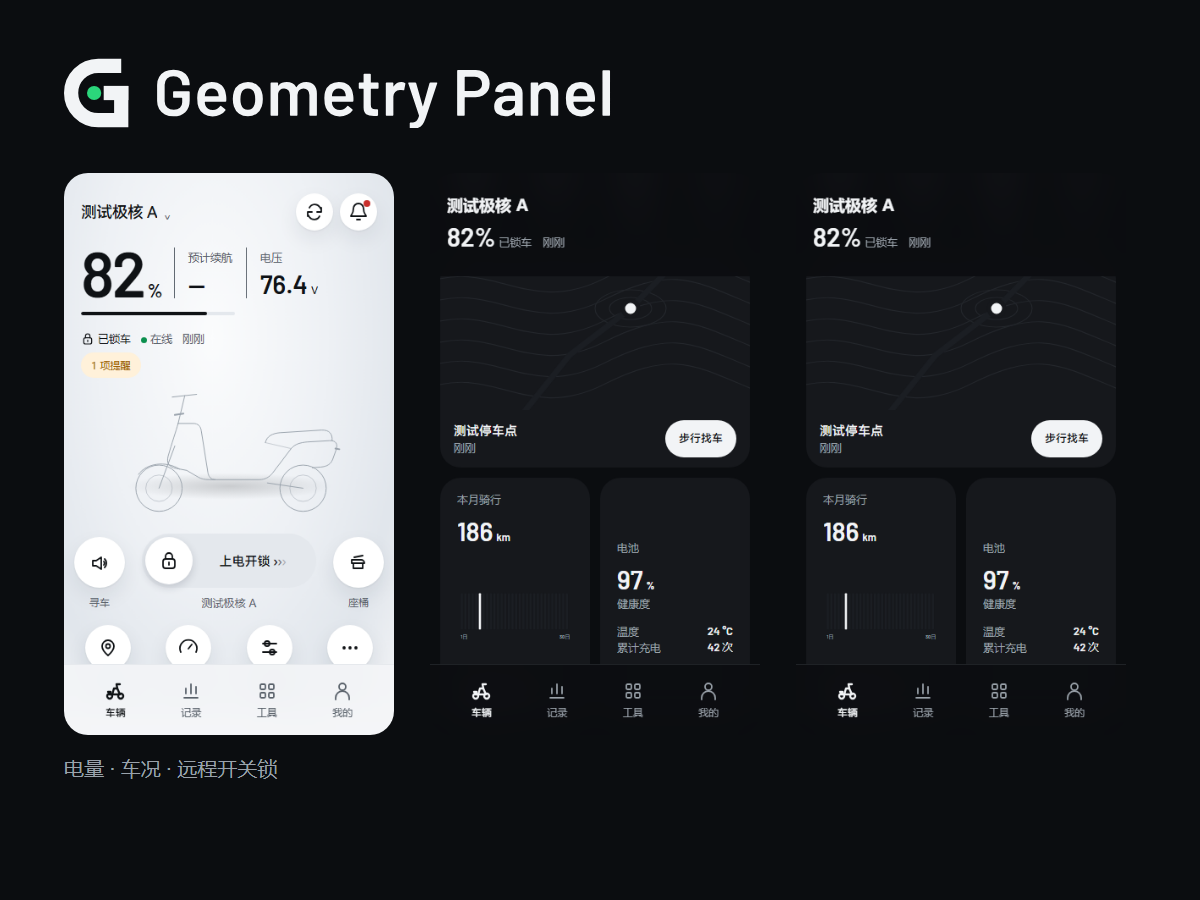
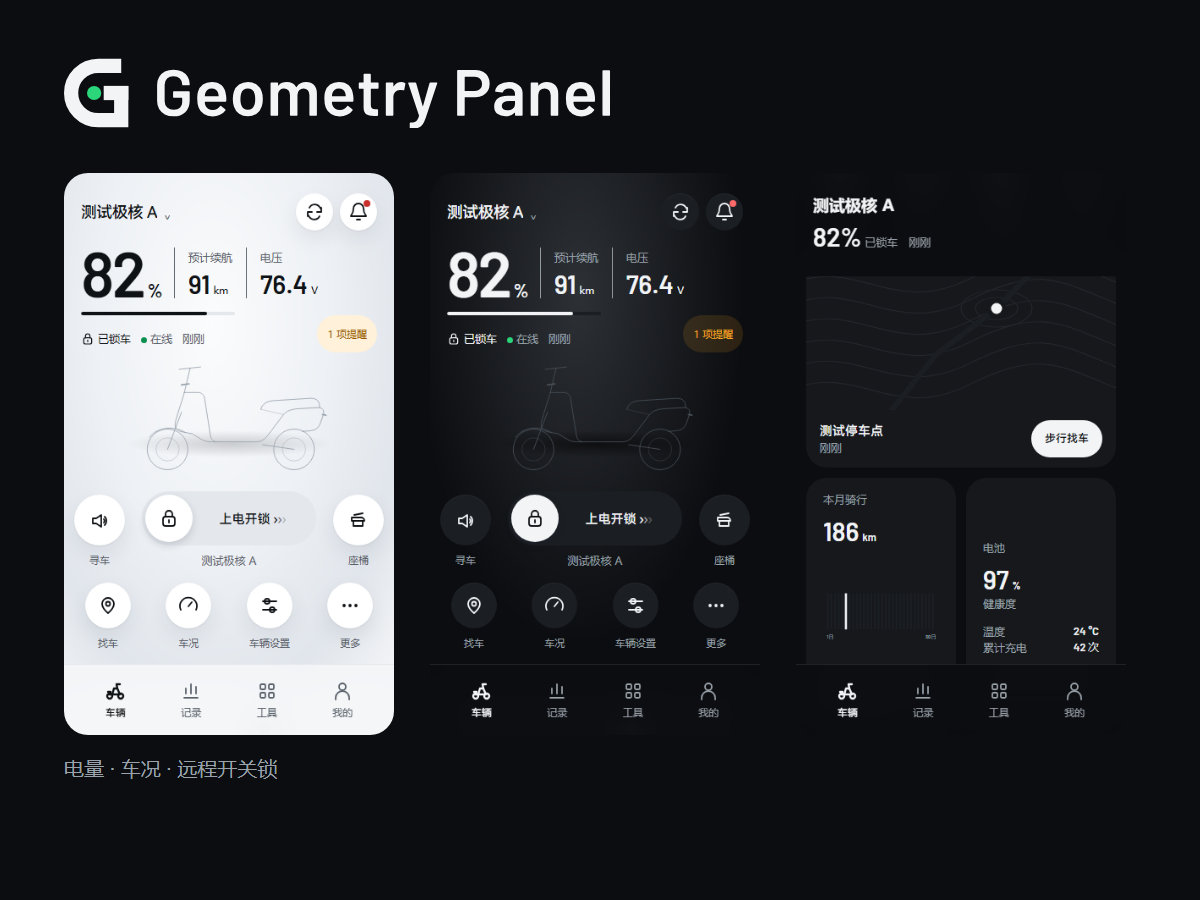
fix: 完善设置确认内容并更新首页预览图

diff --git a/src/ui/owner.ts b/src/ui/owner.ts
@@ -140,11 +140,11 @@ export function mountOwner(host:HTMLElement,o:{path:string;session:Session|null;
   if(cmd==='fence-map'){if(!center)center={longitude:116.397,latitude:39.908};editor!.row.rideRangeName=host.querySelector<HTMLInputElement>('input')!.value;mapLoaded=true;render();}
   if(cmd==='map-in'||cmd==='map-out'){mapZoom=Math.max(8,Math.min(18,mapZoom+(cmd==='map-in'?1:-1)));drawMap();}
   if(cmd==='fence-radius'){if(editor)editor.row.rideRangeName=host.querySelector<HTMLInputElement>('input')!.value;choose(a,'半径',Array.from({length:49},(_,i)=>{const v=200+i*100;return [String(v),v+' m'] as [string,string];}),String(radius),v=>{radius=Number(v);if(center)mapZoom=Math.max(8,Math.min(18,Math.floor(Math.log2(156543.03392*Math.cos(center.latitude*Math.PI/180)*150/radius))));render();});}
-  if(cmd==='fence-save'&&editor?.type==='fence'){const name=host.querySelector<HTMLInputElement>('input')!.value.trim();if(!name||!center||!mapLoaded||!mapSelected){a.toast(!name?'请填写围栏名称':'请在地图上选择圆心');return;}const old={...editor.row},next={...old,rideRangeName:name,addrPositionName:name,addrPosition:`${center.longitude},${center.latitude}`,radius:String(radius/1000)};editor=null;void mutate('电子围栏',txt(old.rideRangeName)||'无',name+' · '+radius+' m',()=>api.saveFence(s,next,scope.signal),'fences',v=>Array.isArray(v)?rows(v).some(x=>x.rideRangeName===name&&String(x.radius)===String(radius/1000)&&x.addrPosition===next.addrPosition):null);render();}
-  if(cmd==='fence-use'||cmd==='fence-delete'){const r=list('fences')[i];if(!r)return;const on=String(r.delFlag)!=='0';void mutate(cmd==='fence-delete'?'删除围栏':'电子围栏',txt(r.rideRangeName),cmd==='fence-delete'?'已删除':on?'开启':'关闭',()=>cmd==='fence-delete'?api.removeFence(s,txt(r.id),scope.signal):api.useFence(s,txt(r.id),on,scope.signal),'fences',v=>Array.isArray(v)?cmd==='fence-delete'?!rows(v).some(x=>x.id===r.id):rows(v).some(x=>x.id===r.id&&String(x.delFlag)===(on?'0':'1')):null,cmd==='fence-delete');}
+  if(cmd==='fence-save'&&editor?.type==='fence'){const name=host.querySelector<HTMLInputElement>('input')!.value.trim();if(!name||!center||!mapLoaded||!mapSelected){a.toast(!name?'请填写围栏名称':'请在地图上选择圆心');return;}const old={...editor.row},next={...old,rideRangeName:name,addrPositionName:name,addrPosition:`${center.longitude},${center.latitude}`,radius:String(radius/1000)};editor=null;void mutate('电子围栏',old.id?txt(old.rideRangeName)+' · '+Number(old.radius)*1000+' m':'无',name+' · '+radius+' m',()=>api.saveFence(s,next,scope.signal),'fences',v=>Array.isArray(v)?rows(v).some(x=>x.rideRangeName===name&&String(x.radius)===String(radius/1000)&&x.addrPosition===next.addrPosition):null);render();}
+  if(cmd==='fence-use'||cmd==='fence-delete'){const r=list('fences')[i];if(!r)return;const on=String(r.delFlag)!=='0';void mutate(cmd==='fence-delete'?'删除围栏':'电子围栏',txt(r.rideRangeName)+' · '+(String(r.delFlag)==='0'?'开启':'关闭'),cmd==='fence-delete'?'已删除':on?'开启':'关闭',()=>cmd==='fence-delete'?api.removeFence(s,txt(r.id),scope.signal):api.useFence(s,txt(r.id),on,scope.signal),'fences',v=>Array.isArray(v)?cmd==='fence-delete'?!rows(v).some(x=>x.id===r.id):rows(v).some(x=>x.id===r.id&&String(x.delFlag)===(on?'0':'1')):null,cmd==='fence-delete');}
   if(cmd==='plan-new'||cmd==='plan-edit'){editor={type:'plan',row:cmd==='plan-edit'?{...list('plans')[i]}:{startTime:'07:00',endTime:'21:00'}};render();}
   if(cmd==='plan-time'&&editor){times('充电时段',txt(editor.row.startTime),txt(editor.row.endTime),(x,y)=>{if(editor){editor.row.startTime=x;editor.row.endTime=y;render();}});}
-  if(cmd==='plan-save'&&editor?.type==='plan'){const r={...editor.row};editor=null;a.sheet('充电计划',ConfirmSheet('保存并启用',s.vehicle.name,s.vehicle.vin.slice(-6),'data-plan-confirm',`从 ${txt(r.id)?'原计划':'无计划'} 改为 ${txt(r.startTime)}–${txt(r.endTime)}`),button=>{if(button.hasAttribute('data-plan-confirm')&&!busy){a.closeSheet();void savePlan(r);}});render();}
+  if(cmd==='plan-save'&&editor?.type==='plan'){const r={...editor.row},old=list('plans').find(x=>x.id===r.id);editor=null;a.sheet('充电计划',ConfirmSheet('保存并启用',s.vehicle.name,s.vehicle.vin.slice(-6),'data-plan-confirm',`从 ${old?txt(old.startTime)+'–'+txt(old.endTime):'无计划'} 改为 ${txt(r.startTime)}–${txt(r.endTime)}`),button=>{if(button.hasAttribute('data-plan-confirm')&&!busy){a.closeSheet();void savePlan(r);}});render();}
   if(cmd==='plan-use'||cmd==='plan-retry'){const r=cmd==='plan-retry'?{id:pendingPlan,delFlag:'1'}:list('plans')[i];if(!r)return;const on=String(r.delFlag)!=='0';void mutate('充电计划',on?'未启用':'已启用',on?'已启用':'未启用',()=>api.usePlan(s,txt(r.id),on,scope.signal),'plans',v=>Array.isArray(v)?rows(v).some(x=>x.id===r.id&&String(x.delFlag)===(on?'0':'1')):null);}
   if(cmd==='share-new'){const existing=list(readKey).filter(r=>shareTab==='long'||Number(r.residualSeconds)>0);if(existing.length>=3)return;editor={type:'share',row:{hours:txt(list('shareTimes')[0]?.hours)||'24'}};render();}
   if(cmd==='share-hours'&&editor){editor.row.name=host.querySelector<HTMLInputElement>('[data-owner-field="name"]')!.value;editor.row.phone=host.querySelector<HTMLInputElement>('[data-owner-field="phone"]')!.value;choose(a,'分享时长',list('shareTimes').filter(r=>num(r.hours)!==null).map(r=>[txt(r.hours),txt(r.hours)+' 小时']),txt(editor.row.hours),v=>{if(editor){editor.row.hours=v;render();host.querySelector<HTMLInputElement>('[data-owner-field="name"]')!.value=txt(editor.row.name);host.querySelector<HTMLInputElement>('[data-owner-field="phone"]')!.value=txt(editor.row.phone);}});}

diff --git a/tests/revision.visual.ts b/tests/revision.visual.ts
@@ -14,6 +14,7 @@ test('revision comparison with synthetic data',async({page,mocks})=>{
   await navigate(page,'/me/appearance');await page.getByRole('button',{name:theme==='light'?'浅色':'深色',exact:true}).click();
   for(const [name,path]of routes){
    await navigate(page,path);await page.waitForTimeout(380);
+   if(name==='home'){await page.evaluate(()=>scrollTo(0,0));await page.waitForTimeout(350);}
    if(name==='folded'){await page.evaluate(()=>window.scrollTo(0,document.querySelector<HTMLElement>('.home-cards')!.offsetTop-100));await page.waitForTimeout(350);}
    await page.screenshot({path:`${out}/${name}-${theme}.png`,fullPage:!['home','folded'].includes(name)});
    checks.push({name,theme,overflow:await page.evaluate(()=>document.documentElement.scrollWidth>innerWidth)});

diff --git a/tests/owner-data.ts b/tests/owner-data.ts
@@ -183,6 +183,7 @@ export const ownerData:Record<OwnerRead,unknown>={
     }
   ],
   "home": {
+    "hmiRidableMile": 91,
     "otaVersion": "1.0.0",
     "activationDate": "2025-01-01",
     "firstBindDate": "2025-01-02",
